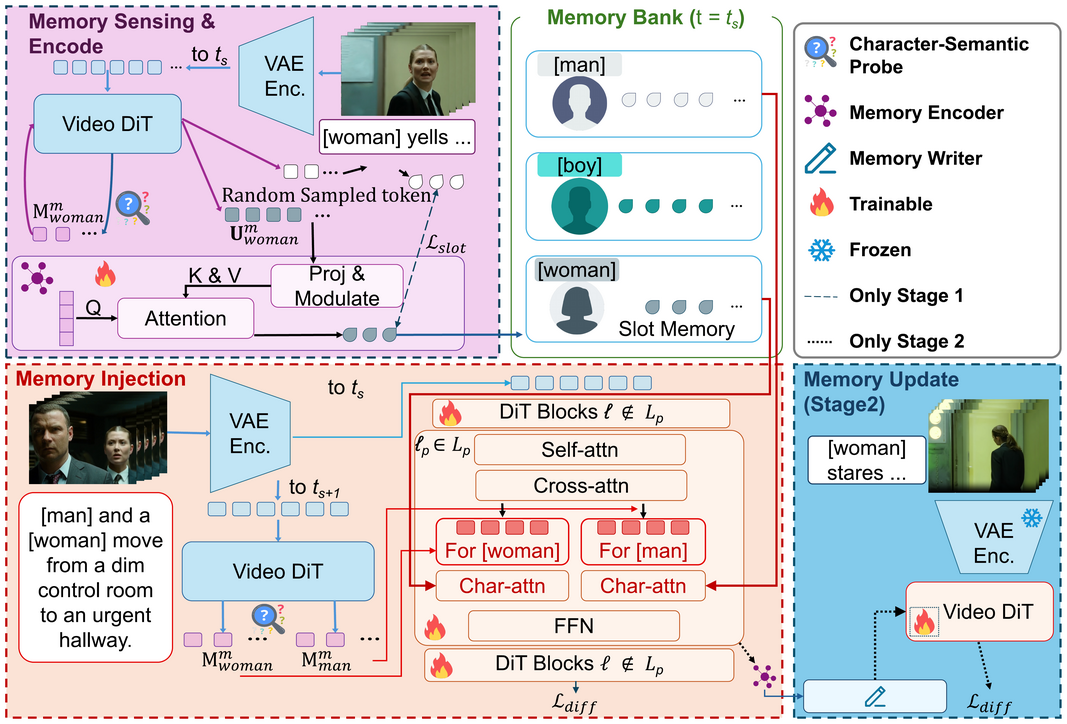
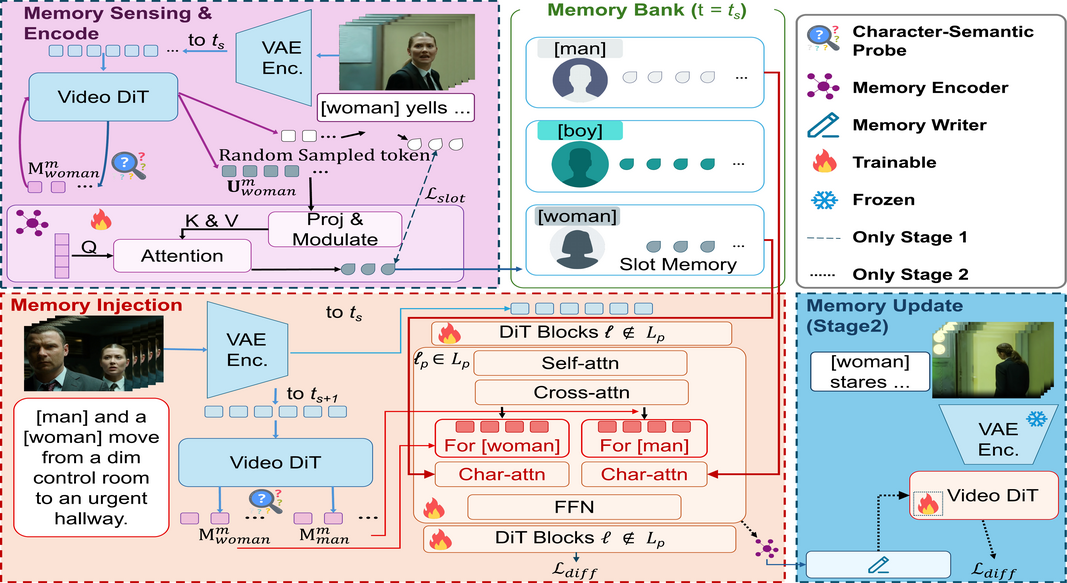
Standardize publication preview sizing

Changed region(s): [[0.0, 0.0, 1.0, 1.0], [0.3093, 0.5249, 0.3402, 0.5557]]

diff --git a/_includes/head/custom.html b/_includes/head/custom.html
@@ -166,27 +166,24 @@
   .page__content .selected-work-image,
   .publication-entry__image {
     width: 100%;
-    overflow: visible;
+    aspect-ratio: 1067 / 583;
+    overflow: hidden;
     background: transparent;
   }
 
   .page__content .selected-work-image img,
   .publication-entry__image img {
     display: block;
+    box-sizing: border-box;
     width: 100%;
-    height: auto !important;
+    height: 100% !important;
     max-width: 100%;
     max-height: none !important;
     border: 1px solid rgba(32, 44, 67, 0.08);
     border-radius: 10px;
     background: #fff;
     box-shadow: 0 2px 10px rgba(32, 44, 67, 0.08);
-  }
-
-  .page__content .selected-work-image img,
-  .publication-entry__image img {
-    aspect-ratio: auto !important;
-    object-fit: initial;
+    object-fit: fill;
   }
 
   .page__content .selected-work-meta {
